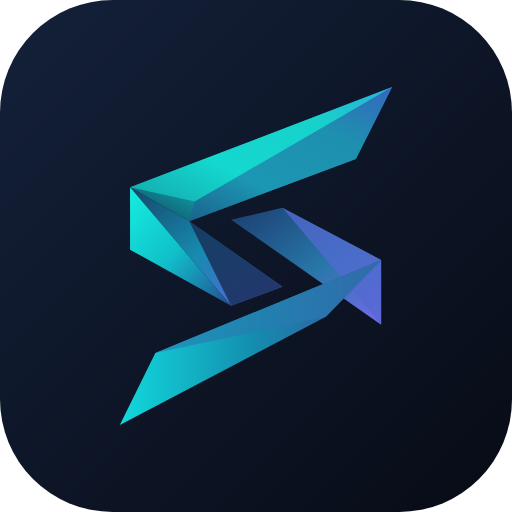
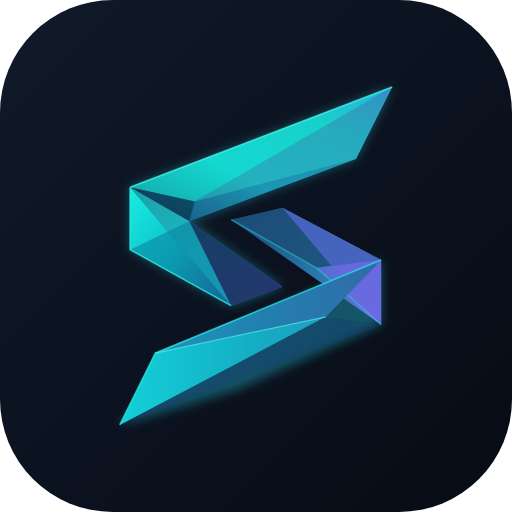
Versión f3def658f9: símbolo original de Setra, palabra corregida, pantalla de inicio y lema «Tu progreso, serie a serie»

diff --git a/index.html b/index.html
@@ -18,7 +18,7 @@ if (/^https?:$/.test(location.protocol)) {
 }
 </script>
 <!--
-  Setra (antes «Rutina») · Workout Routine Tracker: registro de gimnasio en un solo archivo HTML.
+  Setra (antes «Rutina») · Tu progreso, serie a serie: registro de gimnasio en un solo archivo HTML.
   Sin dependencias, sin internet. Todo vive en este teléfono (IndexedDB); el
   respaldo .json lo guarda el usuario («Guardar respaldo»). Copia local de la sección «Gym».
 -->
@@ -316,6 +316,14 @@ svg.graf text{fill:var(--muted);font-size:10px;font-family:inherit}
 .logo-setra{display:flex;flex-direction:column;align-items:center;gap:8px;color:var(--ink)}
 .logo-setra svg{display:block}
 .logo-setra .lema{font-size:11px;font-weight:600;letter-spacing:.22em;color:var(--muted);text-align:center}
+/* Pantalla de inicio (azul noche de la marca en los dos temas) */
+#arranque{position:fixed;inset:0;z-index:90;background:#0B111D;display:flex;align-items:center;justify-content:center;transition:opacity .4s ease}
+#arranque.fuera{opacity:0;pointer-events:none}
+#arranque .logo-setra{color:#F6F8FC;gap:12px;animation:arr-entra .7s cubic-bezier(.2,.7,.2,1) both}
+#arranque .logo-setra .lema{color:#AEB9C9;animation:arr-lema .9s ease both}
+@keyframes arr-entra{from{opacity:0;transform:translateY(8px) scale(.96)}to{opacity:1;transform:none}}
+@keyframes arr-lema{0%,40%{opacity:0}to{opacity:1}}
+@media (prefers-reduced-motion: reduce){#arranque{transition-duration:.01s}#arranque .logo-setra,#arranque .logo-setra .lema{animation:none}}
 .btn.recap-enlace{align-self:center;font-size:12px;font-weight:500;color:var(--muted);margin-top:6px}
 .recap{position:fixed;inset:0;z-index:55;background:#0B1418;color:#FFFFFF;display:flex;flex-direction:column;align-items:center;
   padding:env(safe-area-inset-top) 0 env(safe-area-inset-bottom);-webkit-user-select:none;user-select:none}
@@ -335,6 +343,126 @@ svg.graf text{fill:var(--muted);font-size:10px;font-family:inherit}
 </style>
 </head>
 <body>
+<!-- Pantalla de inicio: el fondo es CSS estático; el script que sigue pinta el logo antes de que se cargue la app.
+     Se va con quitarArranque() (mín. ~700 ms) o sola a los 2 s, o al instante si hay un error. No sale en las demos. -->
+<div id="arranque" aria-hidden="true"><div class="arr-logo"></div></div>
+<script>
+/* ── Marca Setra ──────────────────────────────────────────────────────────
+   Va en su propio script, antes de la app, para que la pantalla de inicio la pinte desde el primer cuadro.
+   Logo fuente: marca/setra_logo1.svg. Aquí va su símbolo tal cual (23 piezas: facetas y filos de luz, más el
+   brillo cian de fondo) y la palabra «SETRA» con los trazos del logo. El lema va en la letra del sistema. */
+const MARCA_GRAD = {   // [x1, y1, x2, y2] relativos a la caja de la faceta, como en el SVG
+  top: [[0, 1, 1, 0], [[0, "#103d5b"], [0.38, "#12d9d0"], [0.72, "#19c9c6"], [1, "#4775e9"]]],
+  cyan: [[0, 0, 1, 1], [[0, "#16eee0"], [0.5, "#10bfc9"], [1, "#244b91"]]],
+  blue: [[0, 0, 1, 1], [[0, "#16466a"], [0.5, "#168baf"], [1, "#625de0"]]],
+  violet: [[0, 0, 1, 1], [[0, "#1c3d70"], [0.55, "#2877a9"], [1, "#7969ec"]]],
+  lower: [[0, 0, 1, 0], [[0, "#11d9dc"], [0.52, "#148cae"], [1, "#414d9d"]]]
+};
+// [puntos, relleno (degradado o color), opacidad, grosor]; con grosor es un filo de luz (trazo abierto, unión redonda).
+// En el orden del SVG; caja de las facetas: x 153–498, y 28–456.
+const MARCA_PIEZAS = [
+  [[166, 155, 498, 28, 452, 119, 241, 198], "top", 1], [[166, 155, 498, 28, 248, 173], "#16d7cf", 0.62],     // hoja de arriba
+  [[248, 173, 498, 28, 452, 119, 241, 198], "#245a9a", 0.52], [[166, 155, 248, 173, 241, 198], "#0b3956", 0.8],
+  [[248, 173, 498, 28, 452, 119], "#35e8d9", 0.32], [[166, 155, 498, 28], "#45fff0", 0.72, 2.2],
+  [[166, 155, 294, 305, 359, 281, 241, 198], "blue", 1], [[166, 155, 166, 234, 294, 305], "cyan", 1],         // pliegue izquierdo
+  [[166, 155, 241, 198, 294, 305], "#20d6d0", 0.62], [[166, 234, 241, 198, 294, 305], "#087b9c", 0.52],
+  [[241, 198, 359, 281, 294, 305], "#182d57", 0.82], [[166, 155, 166, 234, 294, 305], "#29f2e6", 0.8, 1.8],
+  [[294, 196, 359, 181, 484, 247, 484, 329], "violet", 1], [[294, 196, 359, 181, 484, 247, 402, 257], "#1c4f78", 0.85], // hoja central
+  [[359, 181, 484, 247, 484, 329], "#5369d2", 0.75], [[402, 257, 484, 329, 484, 247], "#7769e8", 0.58],
+  [[294, 196, 402, 257, 484, 329], "#20d8d6", 0.48, 2],
+  [[153, 456, 198, 365, 484, 247, 414, 319], "lower", 1], [[153, 456, 198, 365, 414, 319], "#16c9d5", 0.55],  // hoja de abajo
+  [[198, 365, 484, 247, 414, 319], "#287bb1", 0.64], [[153, 456, 414, 319, 484, 329], "#173b75", 0.4],
+  [[153, 456, 198, 365, 484, 247], "#24e9e5", 0.72, 2.2], [[198, 365, 414, 319], "#57f4e7", 0.65, 1.6]
+];
+// Brillo de fondo: estas dos manchas desenfocadas (σ 7) en cian al 42 % × 0,8 (#27E1F9 en sRGB; el filtro SVG va en linearRGB).
+const MARCA_AURA = ["M166 155L498 28L452 119L241 198L359 281L294 305L166 234Z", "M153 456L241 363L484 247L484 329L300 412Z"];
+const MARCA_CAJA = [131, 6, 389, 472];   // viewBox del símbolo: caja de las facetas + 22 de margen para el brillo
+// «SETRA» en bloques rellenos: barras de 19 con ranuras de 3, montantes de 21, esquinas exteriores r 11 (S y R).
+const MARCA_S = "M93 532H164V551H103V554H153Q164 554 164 565V583Q164 594 153 594H82V575H143V572H93Q82 572 82 561V543Q82 532 93 532Z";
+const MARCA_LETRAS = "M182 532H266V551H203V554H256V572H203V575H266V594H182ZM282 532H371V551H337V594H316V551H282Z" +
+  "M387 532H469Q480 532 480 543V563Q480 574 469 574H461L485 594H458L435 574H408V594H387ZM408 551V557H458V551Z" +
+  "M497 594L522 532H548L575 594H552L547 580H521L516 594ZM528 563H541L535 546Z";                // todo se rellena (evenodd)
+let marcaN = 0;
+/** Símbolo en SVG; `alto` es el alto de las facetas (el SVG queda un poco más grande por el margen del brillo). */
+function svgSimbolo(alto) {
+  const id = "sx" + (++marcaN) + "-", esc = alto / 428;
+  let defs = '<filter id="' + id + 'glow" x="-40%" y="-40%" width="180%" height="180%"><feGaussianBlur stdDeviation="7" result="blur"/>' +
+    '<feColorMatrix in="blur" type="matrix" values="0 0 0 0 0.02  0 0 0 0 0.75  0 0 0 0 0.95  0 0 0 .42 0"/></filter>';
+  for (const k in MARCA_GRAD) {
+    const [v, paradas] = MARCA_GRAD[k];
+    defs += '<linearGradient id="' + id + k + '" x1="' + v[0] + '" y1="' + v[1] + '" x2="' + v[2] + '" y2="' + v[3] + '">' +
+      paradas.map((s) => '<stop offset="' + s[0] + '" stop-color="' + s[1] + '"/>').join("") + "</linearGradient>";
+  }
+  const caras = MARCA_PIEZAS.map(([pt, f, o, g]) => '<path d="M' + pt.join(" ") + (g ? '" fill="none" stroke="' + f + '" stroke-width="' + g + '"' :
+    'Z" fill="' + (MARCA_GRAD[f] ? "url(#" + id + f + ")" : f) + '"') + (o < 1 ? ' opacity="' + o + '"' : "") + "/>").join("");
+  return '<svg width="' + Math.round(MARCA_CAJA[2] * esc) + '" height="' + Math.round(MARCA_CAJA[3] * esc) + '" viewBox="' + MARCA_CAJA.join(" ") +
+    '" aria-hidden="true"><defs>' + defs + "</defs>" + '<g filter="url(#' + id + 'glow)" opacity=".8"><path d="' + MARCA_AURA[0] +
+    '" fill="#11d9df"/><path d="' + MARCA_AURA[1] + '" fill="#1679db"/></g><g stroke-linejoin="round">' + caras + "</g></svg>";
+}
+function svgPalabra(alto) {
+  return '<svg width="' + Math.round(alto * 496 / 64) + '" height="' + alto + '" viewBox="80 531 496 64" aria-hidden="true"><path d="' + MARCA_S + MARCA_LETRAS +
+    '" fill="currentColor" fill-rule="evenodd"/></svg>';
+}
+/** Logo con lema: símbolo arriba, «SETRA» y «TU PROGRESO, SERIE A SERIE». */
+function logoSetra(alto) {
+  alto = alto || 96;
+  return '<div class="logo-setra" role="img" aria-label="Setra · Tu progreso, serie a serie">' + svgSimbolo(alto) + svgPalabra(Math.round(alto * 0.27)) +
+    '<span class="lema" aria-hidden="true">TU PROGRESO, SERIE A SERIE</span></div>';
+}
+/** Marca pequeña en las imágenes: símbolo + «SETRA». (x, yCentro) y alinear "left" | "right". */
+function marcaCanvas(c, x, yCentro, alto, alinear, color) {
+  const kS = alto / 428, altoP = alto * 0.46, kP = altoP / 64, anchoS = 345 * kS, sep = alto * 0.22, anchoP = 496 * kP;
+  const x0 = alinear === "right" ? x - anchoS - sep - anchoP : x;
+  const alfa = c.globalAlpha;
+  c.save();
+  c.translate(x0, yCentro - alto / 2); c.scale(kS, kS); c.translate(-153, -28);
+  // Brillo: solo la sombra desenfocada de las manchas (se dibujan muy lejos y la sombra vuelve a su lugar).
+  const m = c.getTransform(), lejos = 1e5;
+  c.save();
+  c.shadowColor = "rgba(39,225,249,0.336)"; c.shadowBlur = 14 * Math.hypot(m.a, m.b);   // shadowBlur = 2σ, en píxeles del lienzo
+  c.shadowOffsetX = -lejos * m.a; c.shadowOffsetY = -lejos * m.b;
+  c.translate(lejos, 0); c.fillStyle = "#000"; c.fill(new Path2D(MARCA_AURA.join("")));
+  c.restore();
+  c.lineJoin = "round";
+  for (const [pt, f, o, g] of MARCA_PIEZAS) {
+    const ruta = new Path2D("M" + pt.join(" ") + (g ? "" : "Z"));
+    let relleno = f;
+    if (MARCA_GRAD[f]) {
+      const xs = pt.filter((_, i) => i % 2 === 0), ys = pt.filter((_, i) => i % 2 === 1);
+      const x1 = Math.min(...xs), y1 = Math.min(...ys), w = Math.max(...xs) - x1, h = Math.max(...ys) - y1, [v, paradas] = MARCA_GRAD[f];
+      relleno = c.createLinearGradient(x1 + v[0] * w, y1 + v[1] * h, x1 + v[2] * w, y1 + v[3] * h);
+      for (const s of paradas) relleno.addColorStop(s[0], s[1]);
+    }
+    c.globalAlpha = alfa * o;
+    if (g) { c.strokeStyle = relleno; c.lineWidth = g; c.stroke(ruta); } else { c.fillStyle = relleno; c.fill(ruta); }
+  }
+  c.restore(); c.save();
+  c.translate(x0 + anchoS + sep, yCentro - altoP / 2); c.scale(kP, kP); c.translate(-80, -531);
+  c.fillStyle = color || "#FFFFFF";
+  c.fill(new Path2D(MARCA_S + MARCA_LETRAS), "evenodd");
+  c.restore();
+}
+/* Pantalla de inicio: solo al abrir (es HTML de la carga; al volver de segundo plano ya no existe). */
+(function () {
+  const a = document.getElementById("arranque");
+  const cfg = window.RUTINA_CONFIG;
+  if (cfg && typeof cfg === "object" && cfg.demo === true) { a.remove(); window.quitarArranque = function () {}; return; }
+  a.firstChild.innerHTML = logoSetra(124);
+  const t0 = Date.now();
+  let hecho = false;
+  window.quitarArranque = function (ya) {
+    if (hecho) return;
+    hecho = true;
+    setTimeout(function () {
+      a.classList.add("fuera");
+      setTimeout(function () { a.remove(); }, 450);
+    }, ya ? 0 : Math.max(0, 700 - (Date.now() - t0)));
+  };
+  setTimeout(function () { window.quitarArranque(true); }, 2000);          // tope: aunque algo tarde
+  window.addEventListener("error", function () { window.quitarArranque(true); });
+  window.addEventListener("unhandledrejection", function () { window.quitarArranque(true); });
+})();
+</script>
 <div id="app" aria-live="off"></div>
 <div id="capas"></div>
 <noscript>Esta app necesita JavaScript.</noscript>
@@ -2536,73 +2664,7 @@ const RUTAS = {
   camara: "M4 8h3l2-2.5h6L17 8h3v11H4zM12 17a3.5 3.5 0 1 0 0-7 3.5 3.5 0 0 0 0 7z", repetir: "M4 12a8 8 0 1 0 2.3-5.7M4 4v4h4",
   archivo: "M7 3h7l5 5v13H7zM14 3v5h5", compartir: "M12 15V3M7.5 7.5L12 3l4.5 4.5M5 13v6a2 2 0 0 0 2 2h10a2 2 0 0 0 2-2v-6"
 };
-/* ── Marca Setra ──────────────────────────────────────────────────────────
-   Logo fuente: marca/setra_logo1.svg. Aquí va el símbolo simplificado (marca/setra-simbolo.svg: sin brillo
-   ni filos de luz) y la palabra «SETRA» con los trazos del logo. El lema va en la letra del sistema. */
-const MARCA_GRAD = {   // [x1, y1, x2, y2] relativos a la caja de la faceta, como en el SVG
-  top: [[0, 1, 1, 0], [[0, "#103d5b"], [0.38, "#12d9d0"], [0.72, "#19c9c6"], [1, "#4775e9"]]],
-  cyan: [[0, 0, 1, 1], [[0, "#16eee0"], [0.5, "#10bfc9"], [1, "#244b91"]]],
-  blue: [[0, 0, 1, 1], [[0, "#16466a"], [0.5, "#168baf"], [1, "#625de0"]]],
-  violet: [[0, 0, 1, 1], [[0, "#1c3d70"], [0.55, "#2877a9"], [1, "#7969ec"]]],
-  lower: [[0, 0, 1, 0], [[0, "#11d9dc"], [0.52, "#148cae"], [1, "#414d9d"]]]
-};
-const MARCA_FACETAS = [   // [puntos, relleno (degradado o color), opacidad]; caja: x 153–498, y 28–456
-  [[166, 155, 498, 28, 452, 119, 241, 198], "top", 1], [[166, 155, 498, 28, 248, 173], "#16d7cf", 0.62],
-  [[248, 173, 498, 28, 452, 119, 241, 198], "#245a9a", 0.52], [[166, 155, 294, 305, 359, 281, 241, 198], "blue", 1],
-  [[166, 155, 166, 234, 294, 305], "cyan", 1], [[241, 198, 359, 281, 294, 305], "#182d57", 0.82],
-  [[294, 196, 359, 181, 484, 247, 484, 329], "violet", 1], [[359, 181, 484, 247, 484, 329], "#5369d2", 0.75],
-  [[153, 456, 198, 365, 484, 247, 414, 319], "lower", 1], [[198, 365, 484, 247, 414, 319], "#287bb1", 0.64]
-];
-const MARCA_S = "M157 542H101C82 542 82 560 101 566L138 578C157 584 157 585 138 585H82";          // se traza (grosor 19)
-const MARCA_LETRAS = "M174 532H258V551H195V554H248V572H195V575H258V594H174ZM276 532H365V551H330V594H311V551H276Z" +
-  "M382 532H464Q475 532 475 543V563Q475 574 464 574H456L480 594H453L430 574H403V594H382ZM403 551V557H453V551Z" +
-  "M495 594L520 532H546L573 594H550L545 580H519L514 594ZM526 563H539L533 546Z";                // se rellena (evenodd)
-let marcaN = 0;
-function svgSimbolo(alto) {
-  const id = "sx" + (++marcaN) + "-";
-  let defs = "";
-  for (const k in MARCA_GRAD) {
-    const [v, paradas] = MARCA_GRAD[k];
-    defs += '<linearGradient id="' + id + k + '" x1="' + v[0] + '" y1="' + v[1] + '" x2="' + v[2] + '" y2="' + v[3] + '">' +
-      paradas.map((s) => '<stop offset="' + s[0] + '" stop-color="' + s[1] + '"/>').join("") + "</linearGradient>";
-  }
-  const caras = MARCA_FACETAS.map(([pt, f, o]) => '<path d="M' + pt.join(" ") + 'Z" fill="' + (MARCA_GRAD[f] ? "url(#" + id + f + ")" : f) + '"' + (o < 1 ? ' opacity="' + o + '"' : "") + "/>").join("");
-  return '<svg width="' + Math.round(alto * 345 / 428) + '" height="' + alto + '" viewBox="153 28 345 428" aria-hidden="true"><defs>' + defs + "</defs>" + caras + "</svg>";
-}
-function svgPalabra(alto) {
-  return '<svg width="' + Math.round(alto * 496 / 64) + '" height="' + alto + '" viewBox="80 531 496 64" aria-hidden="true"><path d="' + MARCA_S +
-    '" fill="none" stroke="currentColor" stroke-width="19"/><path d="' + MARCA_LETRAS + '" fill="currentColor" fill-rule="evenodd"/></svg>';
-}
-/** Logo con lema: símbolo arriba, «SETRA» y «WORKOUT ROUTINE TRACKER». */
-function logoSetra(alto) {
-  alto = alto || 96;
-  return '<div class="logo-setra" role="img" aria-label="Setra · Workout Routine Tracker">' + svgSimbolo(alto) + svgPalabra(Math.round(alto * 0.27)) +
-    '<span class="lema" aria-hidden="true">WORKOUT ROUTINE TRACKER</span></div>';
-}
-/** Marca pequeña en las imágenes: símbolo + «SETRA». (x, yCentro) y alinear "left" | "right". */
-function marcaCanvas(c, x, yCentro, alto, alinear, color) {
-  const kS = alto / 428, altoP = alto * 0.46, kP = altoP / 64, anchoS = 345 * kS, sep = alto * 0.22, anchoP = 496 * kP;
-  const x0 = alinear === "right" ? x - anchoS - sep - anchoP : x;
-  const alfa = c.globalAlpha;
-  c.save();
-  c.translate(x0, yCentro - alto / 2); c.scale(kS, kS); c.translate(-153, -28);
-  for (const [pt, f, o] of MARCA_FACETAS) {
-    const ruta = new Path2D("M" + pt.join(" ") + "Z");
-    let relleno = f;
-    if (MARCA_GRAD[f]) {
-      const xs = pt.filter((_, i) => i % 2 === 0), ys = pt.filter((_, i) => i % 2 === 1);
-      const x1 = Math.min(...xs), y1 = Math.min(...ys), w = Math.max(...xs) - x1, h = Math.max(...ys) - y1, [v, paradas] = MARCA_GRAD[f];
-      relleno = c.createLinearGradient(x1 + v[0] * w, y1 + v[1] * h, x1 + v[2] * w, y1 + v[3] * h);
-      for (const s of paradas) relleno.addColorStop(s[0], s[1]);
-    }
-    c.globalAlpha = alfa * o; c.fillStyle = relleno; c.fill(ruta);
-  }
-  c.restore(); c.save();
-  c.translate(x0 + anchoS + sep, yCentro - altoP / 2); c.scale(kP, kP); c.translate(-80, -531);
-  c.fillStyle = c.strokeStyle = color || "#FFFFFF"; c.lineWidth = 19;
-  c.stroke(new Path2D(MARCA_S)); c.fill(new Path2D(MARCA_LETRAS), "evenodd");
-  c.restore();
-}
+/* La marca Setra (MARCA_*, logoSetra, marcaCanvas) está en el script del principio del body: la usa la pantalla de inicio. */
 function ic(n, t, grosor) {
   return '<svg width="' + (t || 20) + '" height="' + (t || 20) + '" viewBox="0 0 24 24" fill="none" stroke="currentColor" stroke-width="' + (grosor || (n === "puntos" ? 3 : 2)) +
     '" stroke-linecap="round" stroke-linejoin="round" aria-hidden="true"><path d="' + RUTAS[n] + '"/></svg>';
@@ -3319,7 +3381,7 @@ async function dibujarTarjetaMapa(t) {
 async function compartirImagen(blob, nombre, texto) {
   const archivo = typeof File === "function" ? new File([blob], nombre, { type: "image/png" }) : null;
   if (archivo && navigator.canShare && navigator.canShare({ files: [archivo] })) {
-    await navigator.share({ files: [archivo], text: texto + "\n\n— Setra · Workout Routine Tracker" });
+    await navigator.share({ files: [archivo], text: texto + "\n\n— Setra · Tu progreso, serie a serie" });
   } else {
     const a = document.createElement("a"); a.href = URL.createObjectURL(blob); a.download = nombre;
     document.body.appendChild(a); a.click(); setTimeout(() => { URL.revokeObjectURL(a.href); a.remove(); }, 1500);
@@ -4929,7 +4991,7 @@ setInterval(() => {
    El service worker (sw.js) guarda la app para abrir sin señal; nunca toca los datos.
    Una versión nueva espera hasta que el usuario toca «Actualizar»: antes de recargar
    se guarda todo, y una sesión en curso se retoma sola al volver. */
-const VERSION_APP = "e15e4f82d9"; /*VERSION-APP*/
+const VERSION_APP = "f3def658f9"; /*VERSION-APP*/
 /* iPhone/iPad: todos sus navegadores (Chrome incluido) usan el motor de Safari. Sin botón propio de
    instalar y, si se quita el ícono, se borran los datos. iPadOS se presenta como Mac: se reconoce por
    la pantalla táctil. El guardado y el respaldo son iguales que en Android. */
@@ -5313,7 +5375,7 @@ async function arrancar(robar) {
   let r;
   try { r = await P.iniciar({ robar: robar }); }
   catch (e) { console.error(e); r = { ok: true, estado: "sin-almacenamiento" }; }
-  if (r.estado === "otra-pestana") { bloqueo(); return; }
+  if (r.estado === "otra-pestana") { bloqueo(); quitarArranque(true); return; }
   if (r.recuperado) setTimeout(() => toast("Se recuperó lo último que anotaste antes de cerrar"), 400);
   if (r.estado === "sin-almacenamiento") estado = L.documentoNuevo();
   else if (r.estado === "nuevo") { if (!estado) { estado = L.documentoNuevo(); await P.guardarLocal(); } }
@@ -5324,6 +5386,7 @@ async function arrancar(robar) {
   try { history.replaceState({ vista: "inicio", params: {} }, ""); } catch (e) {}
   if (darBienvenida) { ui.paso = 1; ir("bienvenida", {}, true); }
   else if (enCurso && ui.vista !== "rescate") ir("sesion", { id: enCurso.id }); else render(true);
+  quitarArranque(ui.vista === "rescate");      // rescate: sin esperar el mínimo
   avisoMigracion();
   revisarCompartida();
   await pedirPersistencia();

diff --git a/sw.js b/sw.js
@@ -11,7 +11,7 @@
 // nuevo se instala y ESPERA; la app muestra «Hay una versión nueva» y solo
 // cuando el usuario toca «Actualizar» le pide que tome el control.
 
-const VERSION = "e15e4f82d9";
+const VERSION = "f3def658f9";
 const CACHE = "rutina-app-" + VERSION;
 const ARCHIVOS = ["./", "index.html", "manifest.webmanifest", "icono-192.png", "icono-512.png", "icono-maskable-512.png", "icono.svg", "icono-apple.png"];
 
